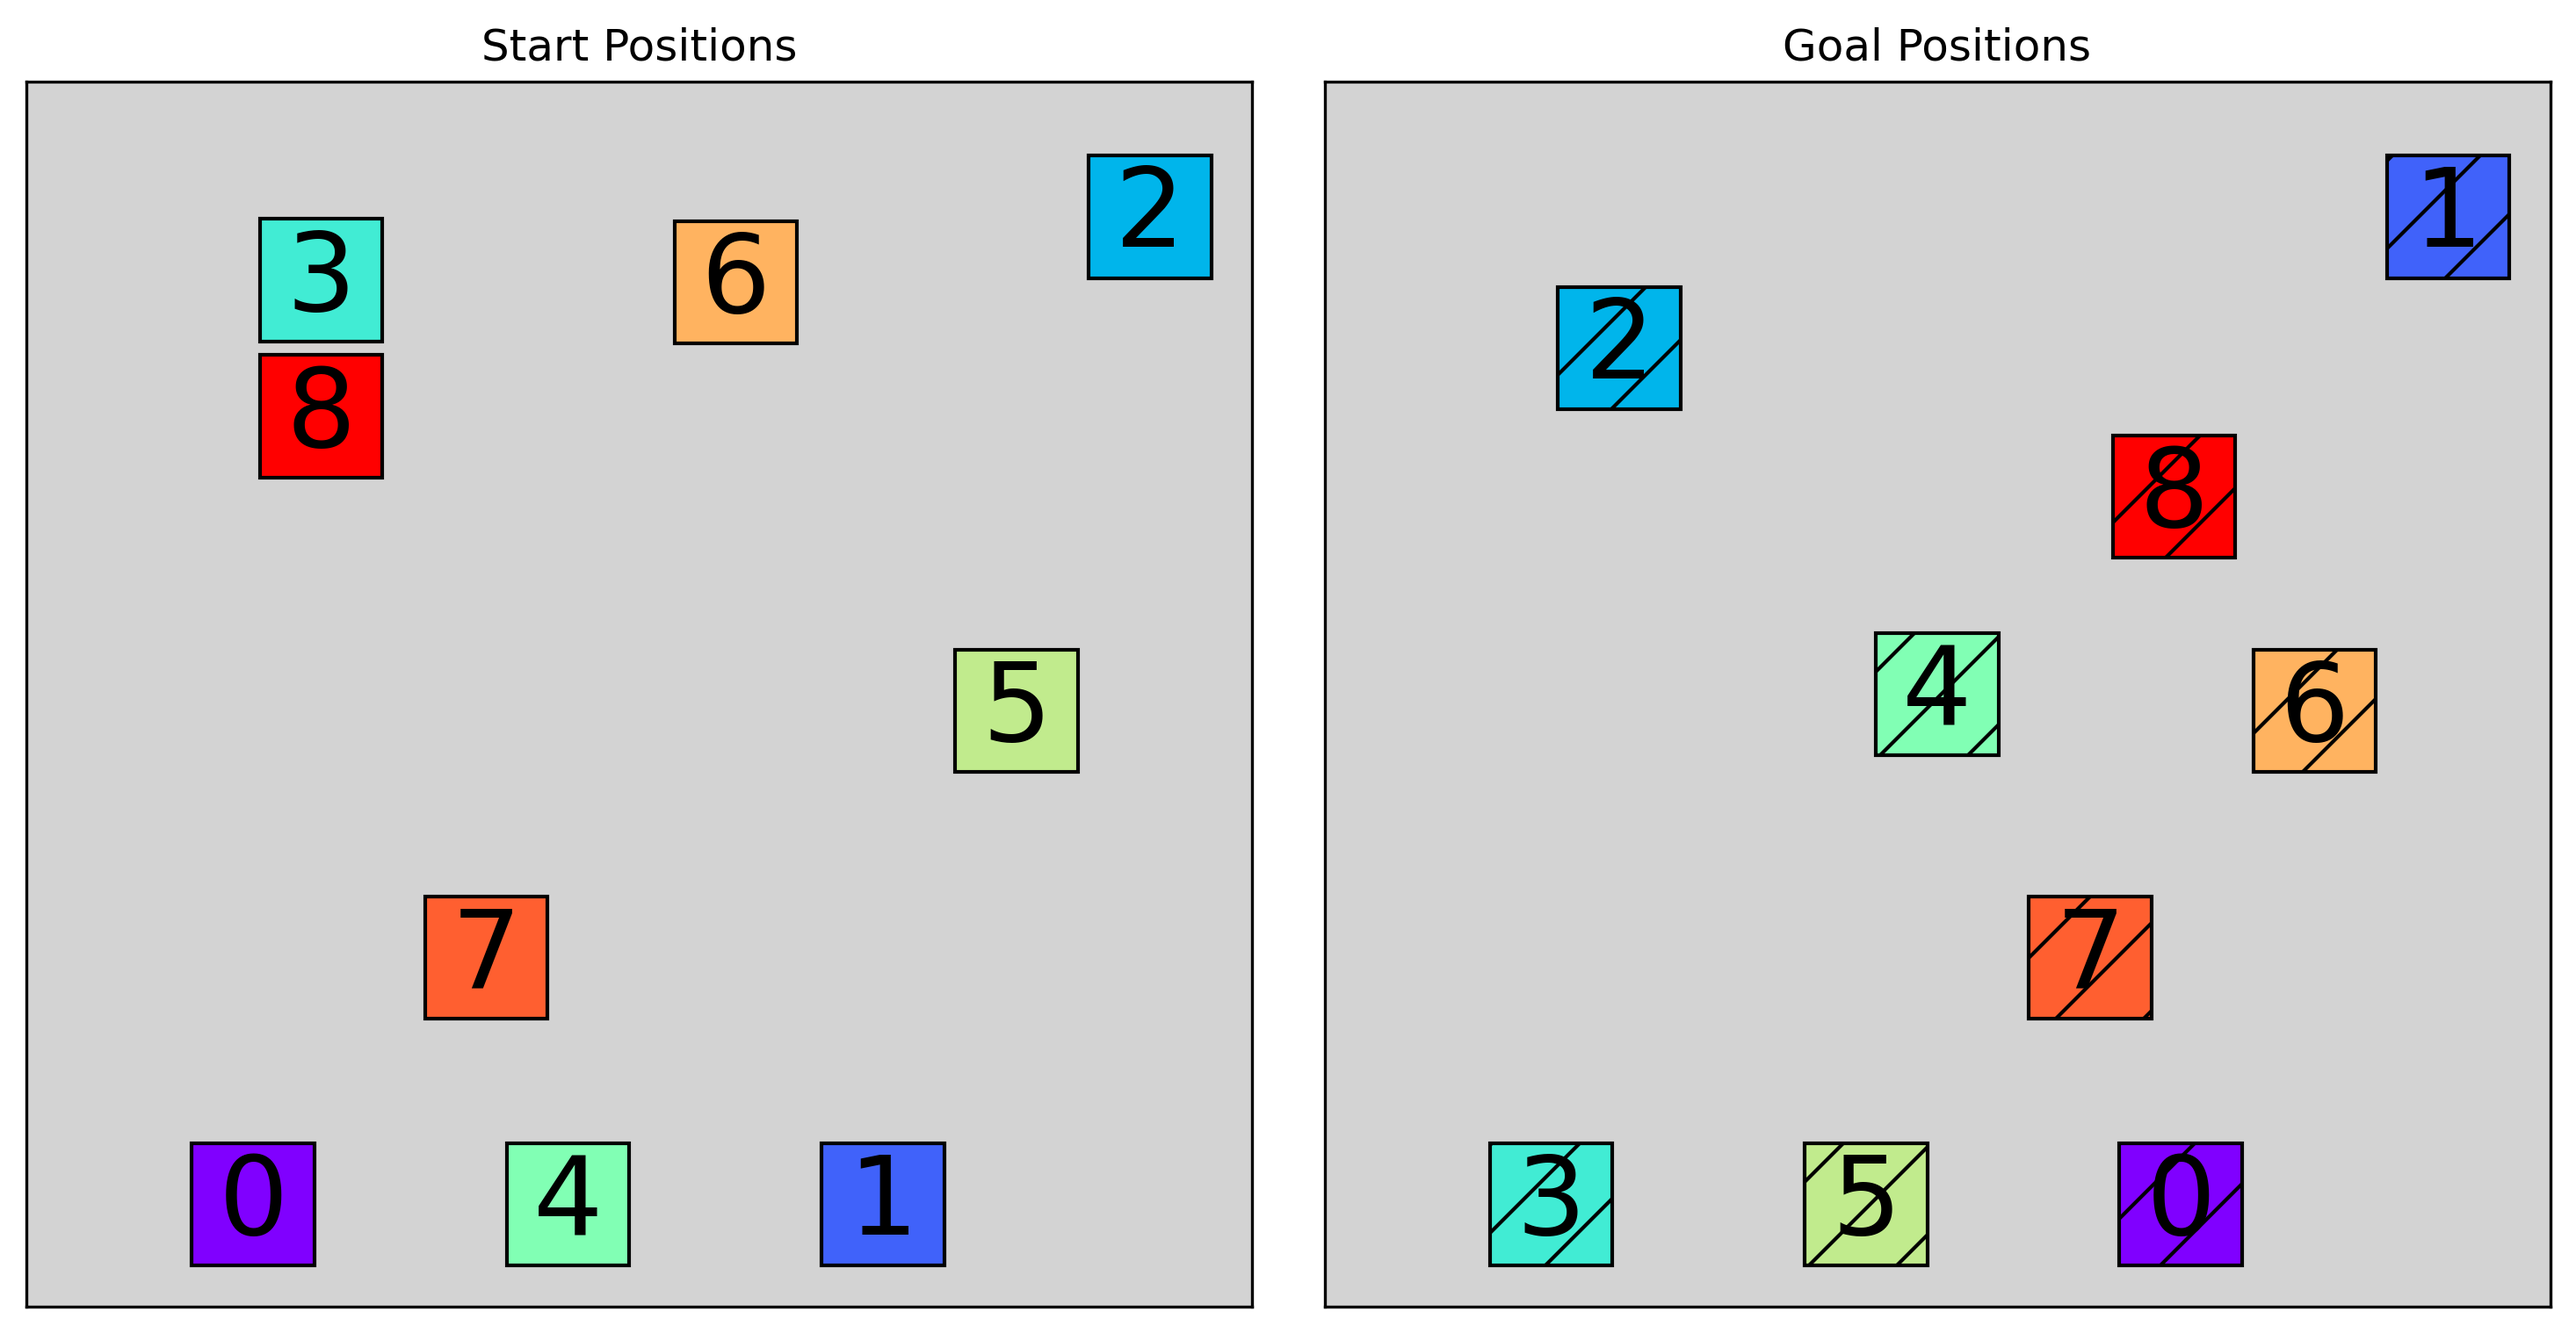
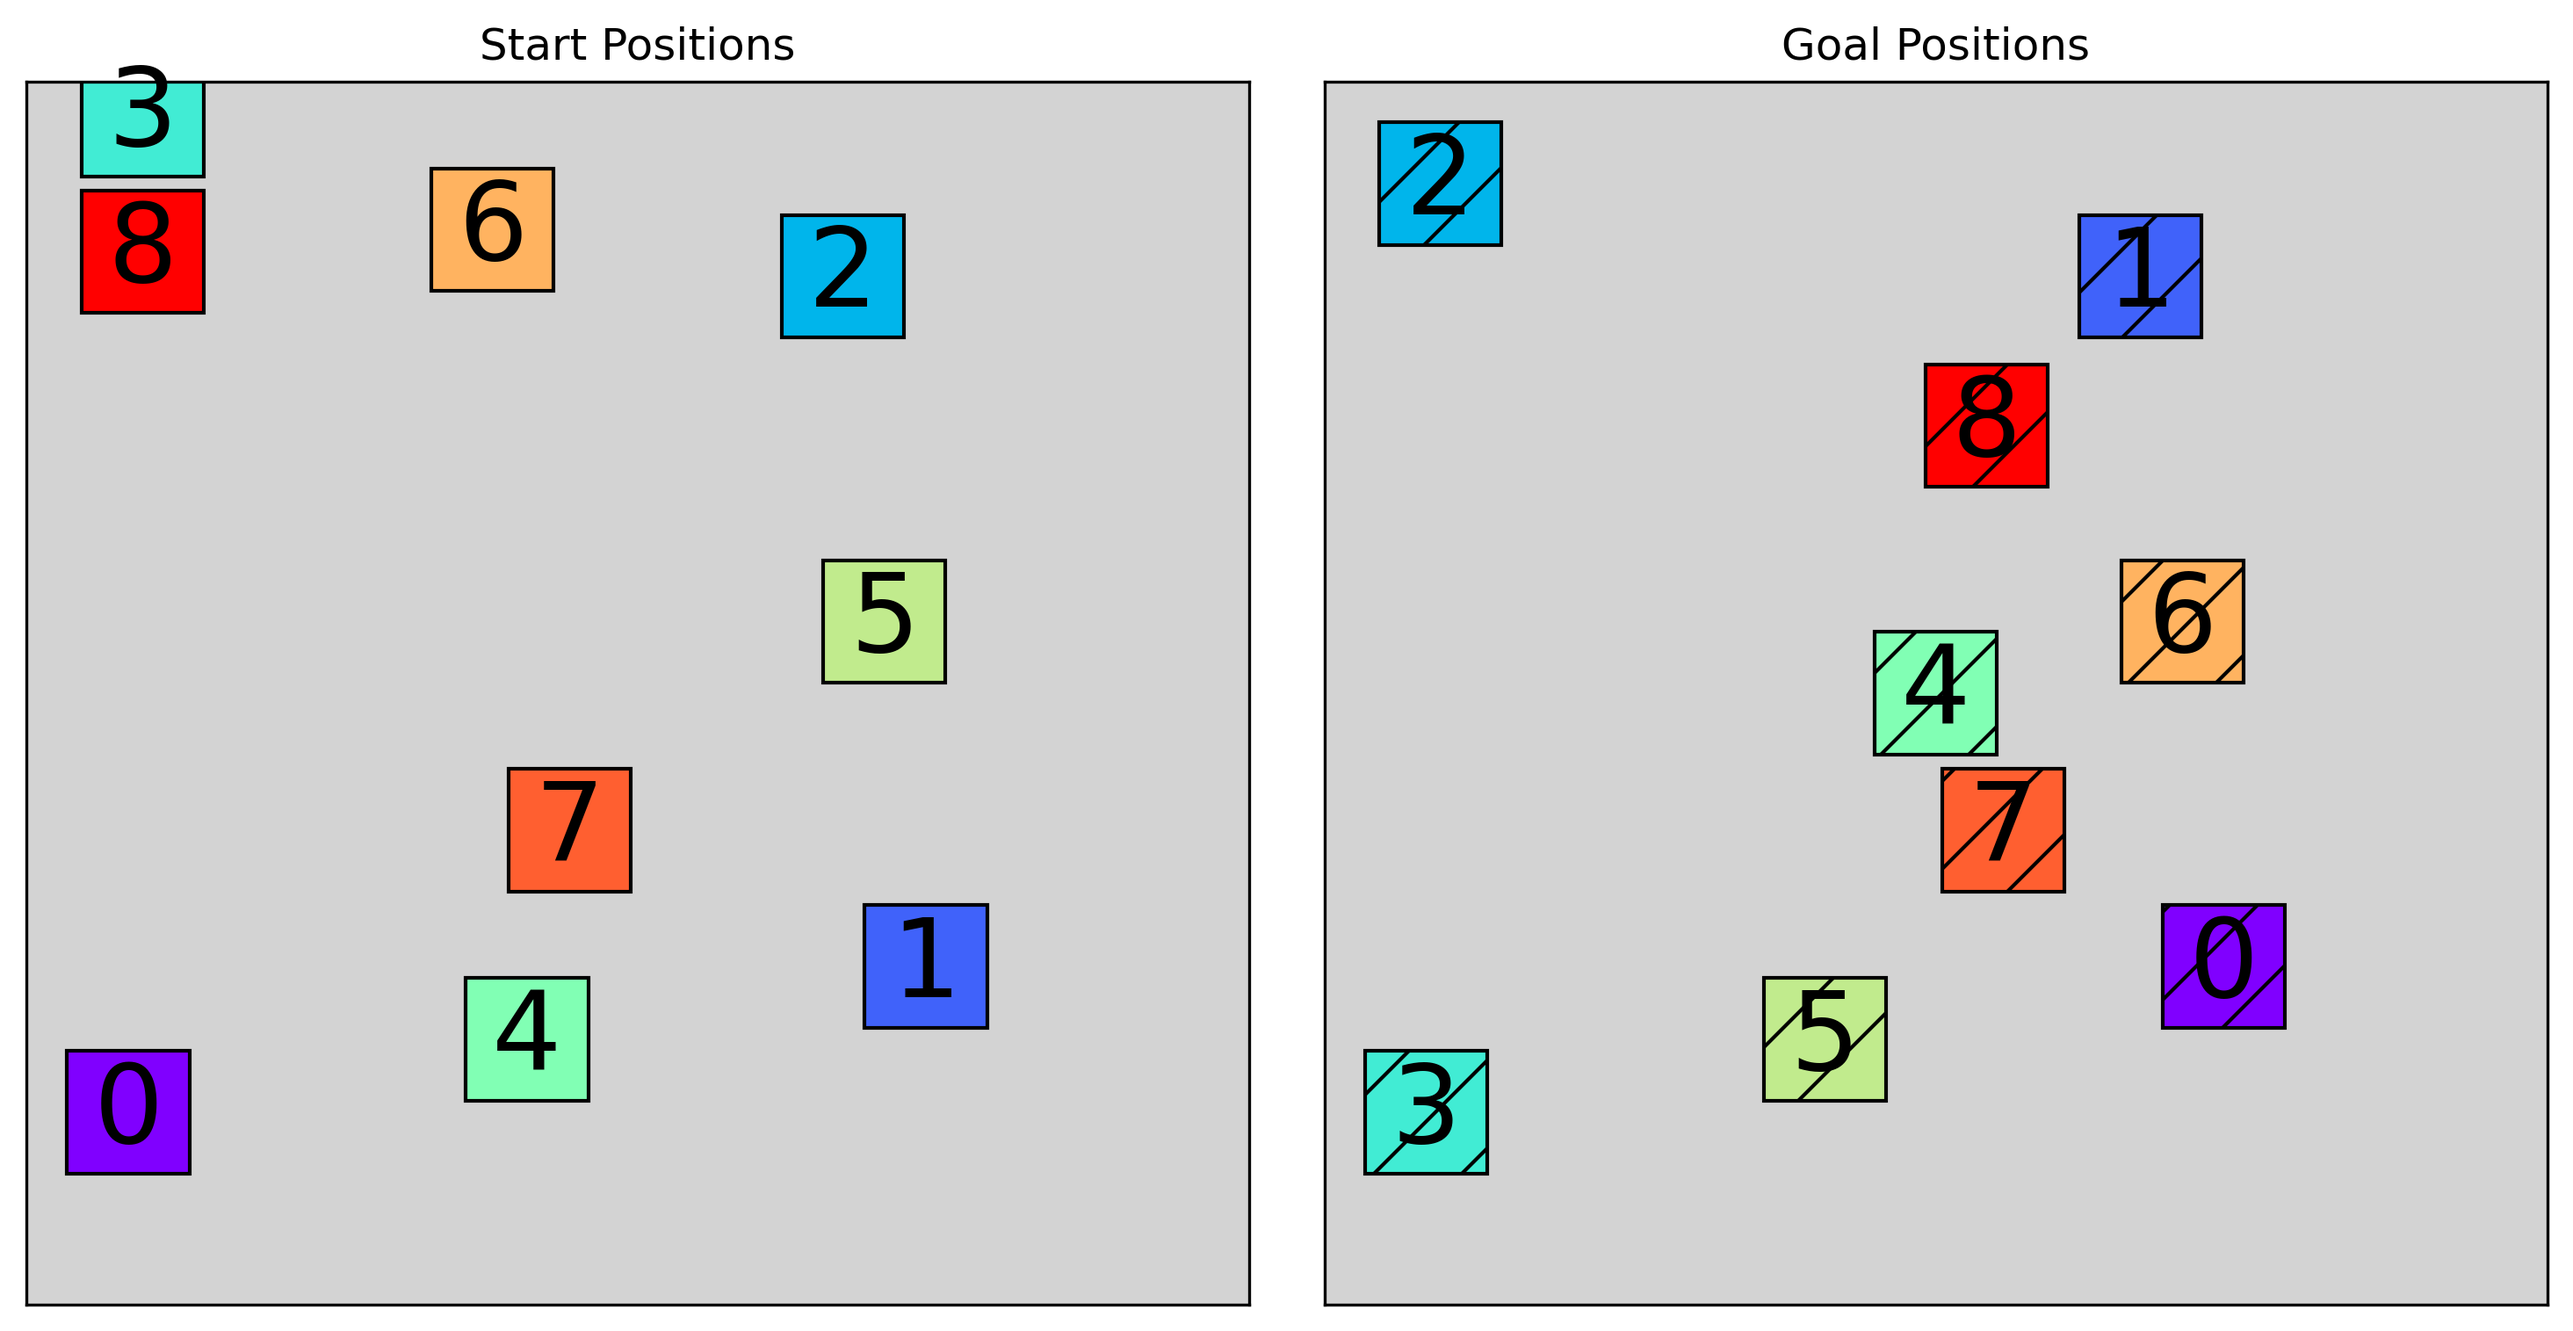
testing ppt

diff --git a/task.py b/task.py
@@ -589,10 +589,10 @@ class Task:
         width, height = prs.slide_width, prs.slide_height
 
         # Title
-        # title_box = slide.shapes.add_textbox(Inches(0.5), Inches(0.2), width - Inches(1), Inches(0.5))
-        # tf = title_box.text_frame
-        # tf.text = slide_title
-        # tf.paragraphs[0].font.size = Pt(24)
+        title_box = slide.shapes.add_textbox(Inches(0.5), Inches(0.2), width - Inches(1), Inches(0.5))
+        tf = title_box.text_frame
+        tf.text = slide_title
+        tf.paragraphs[0].font.size = Pt(24)
 
         section_width = width / 3 - Inches(0.5)
         section_margin = Inches(0.25)
@@ -614,14 +614,14 @@ class Task:
             center_y = height / 2
 
             # Table
-            # table_left = center_x - visual_table_size_inch / 2
-            # table_top = center_y - visual_table_size_inch / 2
-            # table_rect = slide.shapes.add_shape(MSO_SHAPE.RECTANGLE, table_left, table_top,
-            #                                     visual_table_size_inch, visual_table_size_inch)
-            # table_fill = table_rect.fill
-            # table_fill.solid()
-            # table_fill.fore_color.rgb = RGBColor(230, 230, 230)
-            # table_rect.line.color.rgb = RGBColor(180, 180, 180)
+            table_left = center_x - visual_table_size_inch / 2
+            table_top = center_y - visual_table_size_inch / 2
+            table_rect = slide.shapes.add_shape(MSO_SHAPE.RECTANGLE, table_left, table_top,
+                                                visual_table_size_inch, visual_table_size_inch)
+            table_fill = table_rect.fill
+            table_fill.solid()
+            table_fill.fore_color.rgb = RGBColor(230, 230, 230)
+            table_rect.line.color.rgb = RGBColor(180, 180, 180)
 
             # Object Rectangles
             for i in range(self.num_objects):
@@ -645,10 +645,10 @@ class Task:
                     p.font.size = Pt(10)
                     p.alignment = 1
 
-                # if scene_type in ['start', 'dependency']:
-                #     draw_box(start, i)
-                # if scene_type == 'goal':
-                #     draw_box(goal, i)
+                if scene_type in ['start', 'dependency']:
+                    draw_box(start, i)
+                if scene_type == 'goal':
+                    draw_box(goal, i)
 
             # Dependency arrows
             if scene_type == 'dependency':
@@ -673,8 +673,6 @@ class Task:
                         line_elem.append(parse_xml("""
                                 <a:headEnd type="arrow" xmlns:a="http://schemas.openxmlformats.org/drawingml/2006/main"/>
                         """))
-                        break
-                    break
 
 
         draw_scene('start', section_margin)
